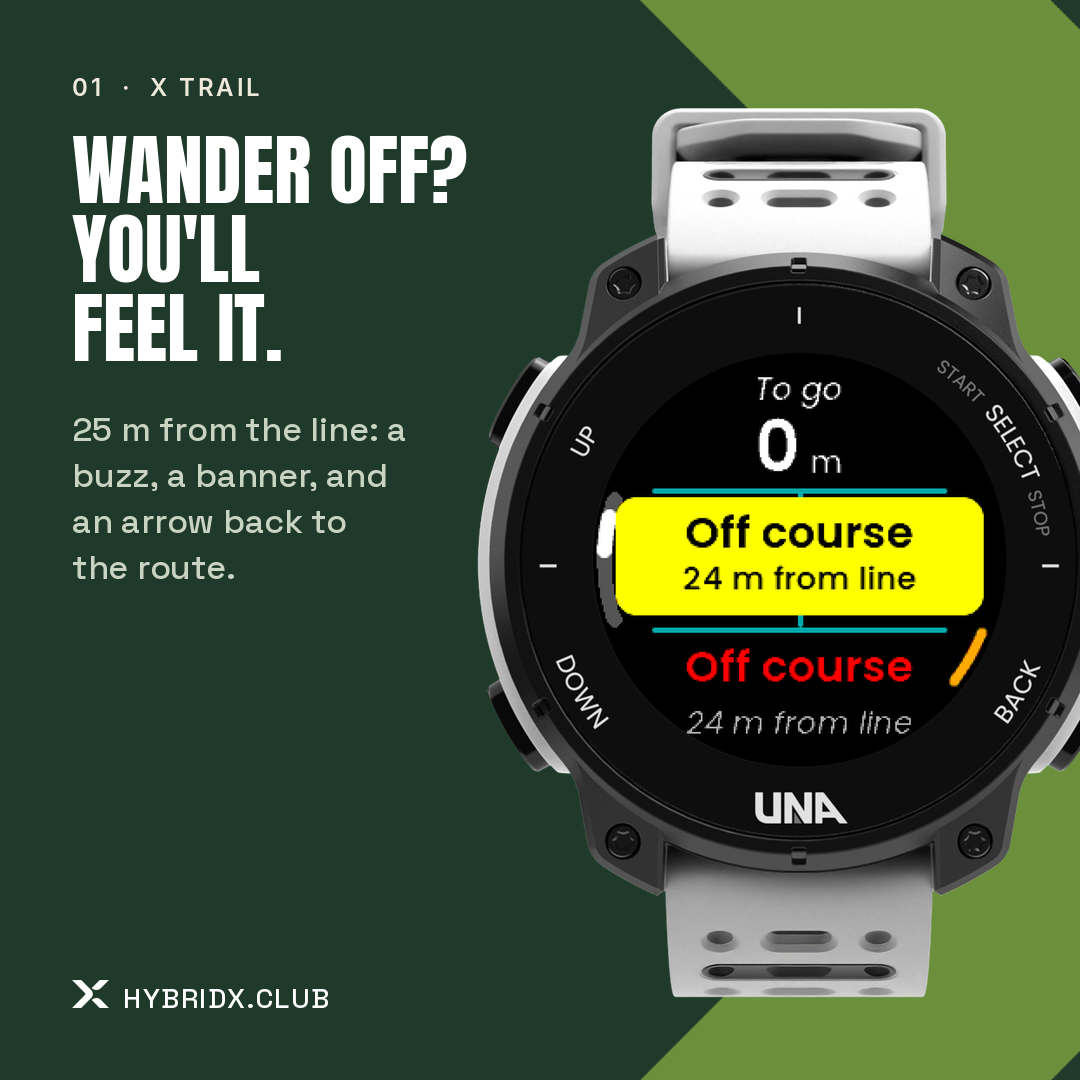
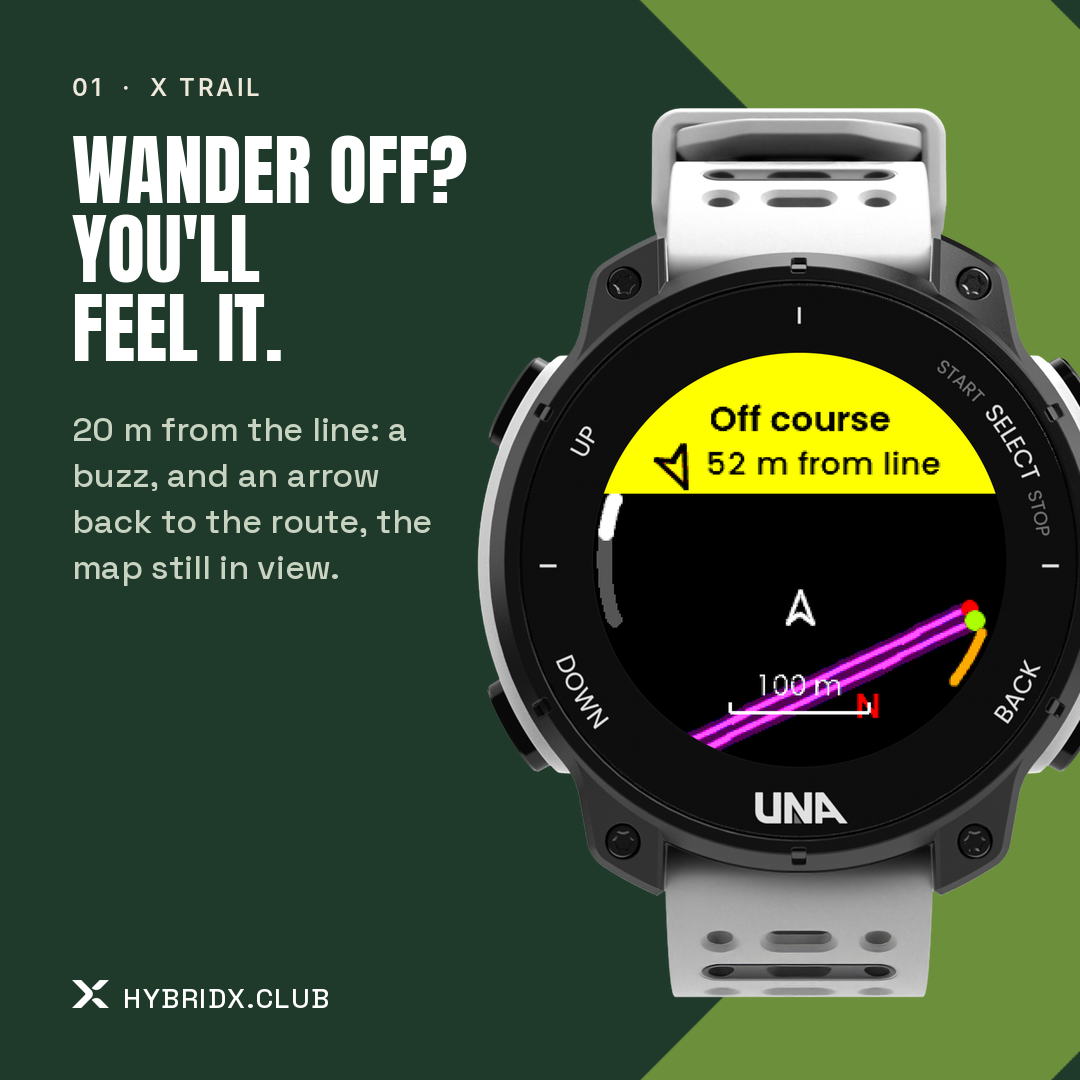
X Trail 1.1.0: the store kit and the November competition entry
- CHANGELOG: 1.1.0, the field test's amendments.
- Previews: six, with off course on the new cap and the wrong way
  (store_previews.sh picks them; --recapture runs both walkthroughs).
- Gallery: the off-course card at 20 m, a Wrong way card in place of
  Heading up, the routes card saying the watch names the folder, and the
  family card with X Training.
- Store text: the wrong way and the folder added, and two of 1.0.0's
  claims corrected ("off by 25 m"; "300 m to 3 km with one button").
- docs/SUBMISSION.md: the release steps (merge, tag trail-v1.1.0, CI's
  trail-store-zip, a watch check, upload), the release notes and a draft
  competition entry.

Checked: a 1.1.0 build passes pack-store-zip.sh --expect-version 1.1.0
(the portal's manifest rules, both SDK validators, the App ID in all
three places). That local zip is a compile check; CI's from the tag is
the one to upload.

Claude-Session: https://claude.ai/code/session_01CNkC8MxXKCmAyyiVM96XXD

Changed region(s): [[0.55, 0.3056, 0.9167, 0.7028], [0.0611, 0.3667, 0.3972, 0.55]]

diff --git a/hybridx-link/Tools/Brand/store_images.py b/hybridx-link/Tools/Brand/store_images.py
@@ -86,14 +86,14 @@ LISTINGS = {
         "body": "Follow a GPX route on your wrist, with a buzz when you leave the line.",
         "hero": "previews/4-off-course.png",
         "cards": [
-            (["WANDER OFF?", "YOU'LL", "FEEL IT."], "25 m from the line: a buzz, a banner, and an arrow back to the route.",
+            (["WANDER OFF?", "YOU'LL", "FEEL IT."], "20 m from the line: a buzz, and an arrow back to the route, the map still in view.",
              "previews/4-off-course.png", False),
-            (["YOUR", "ROUTES"], "Copy your GPX files over USB. Each shows its distance and climb.",
+            (["YOUR", "ROUTES"], "Copy GPX files over USB: the watch tells you where. Each shows its distance and climb.",
              "previews/1-routes.png", True),
-            (["HEADING", "UP"], "A map that turns with you, zoomed from 300 m to 3 km with one button.",
-             "previews/3-map.png", False),
+            (["WRONG", "WAY?"], "On the route but running it backwards? A different buzz, and an arrow the right way.",
+             "previews/5-wrong-way.png", False),
             (["KNOW THE", "CLIMB"], "An elevation profile for routes with heights, and turn cues before each turn.",
-             "previews/5-elevation.png", True),
+             "previews/6-elevation.png", True),
         ],
     },
     "ride": {

diff --git a/hybridx-trail/docs/SUBMISSION.md b/hybridx-trail/docs/SUBMISSION.md
@@ -1,0 +1,90 @@
+# X Trail 1.1.0: the store update and the November competition
+
+Written 24 November 2026. X Trail 1.0.1 is on the store; 1.1.0 is the first field test's
+amendments (NOTES "T4"), packaged for the store and for UNA's November app competition.
+
+**The competition's rules and deadline are not in this repository.** Race's entry (October,
+`hybridx-race/docs/SUBMISSION.md`) was judged on usefulness, originality and UX/UI, each out of
+10; the entry below follows that shape. Check the November email for its deadline, its form and
+whether an update to a listed app can be entered.
+
+## Where things stand
+
+| | |
+|---|---|
+| The app | Built: wrong way, off course at 20 m, the alert as a cap across the top, the run after the finish, the folder on the route list, and two fixes (NOTES "T4"). 172 host tests, also under ASan + UBSan |
+| On a watch | **Not yet.** Every change is checked in the simulator only (NOTES "For Jon on the watch") |
+| The package | Ready. `Utilities/pack-store-zip.sh --expect-version 1.1.0` passes locally on a 1.1.0 build: the portal's manifest rules, both SDK validators, the App ID (`1C83FDDE4EA3C880`) the same in all three places, six previews. That local zip was a compile check and is not for upload: CI builds the real one from the tag |
+| Previews (in the zip) | Six, from the simulator: routes, a route, the map, off course (the new cap), **wrong way** (new), the climb |
+| Gallery (on the listing) | Regenerated in `docs/store/`: the banner, four cards (off course at 20 m, your routes, **wrong way**, the climb) and the family card, now with X Training |
+| Store text | The listing's description is updated in `hybridx-link/docs/STORE_RELEASE.md` ("X Trail"); the release notes are below |
+
+## The steps (about 45 minutes of Jon's time, plus a run)
+
+1. **Merge** this branch's pull request into `main` (earlier Trail tags are on `main`'s merge
+   commits).
+2. **Make the tag on GitHub.** Claude's session cannot push tags.
+   1. Open the repository, then **Releases**, then **Draft a new release**.
+   2. **Choose a tag:** type `trail-v1.1.0`, choose **Create new tag on publish**.
+   3. **Target:** `main`, at the merge commit.
+   4. **Title:** "X Trail 1.1.0". Paste the release notes below if you like.
+   5. Choose **Publish release**.
+3. **Wait about ten minutes** for *Watch builds* on the tag (the **Actions** tab). On its run
+   page, download **trail-store-zip** (`HybridXTrail-1.1.0.zip`) and **watch-apps**. On a tag,
+   CI refuses to make the zip if the binary's version is not 1.1.0.
+4. **Check the exact binary on the watch.** Copy `HybridXTrail_1.1.0.uapp` from the zip into
+   `Apps/1C83FDDE4EA3C880/` over USB (the store install's folder; delete the old `.uapp` there,
+   keep `Routes/` and the other files), power-cycle, and do the short test: NOTES "For Jon on
+   the watch", at least items 1, 2 and 5. Then a run on an out-and-back if you can (item 3).
+5. **Upload.** On X Trail's listing: the **Version** tab, **Upload New**, the zip itself (not
+   its contents), **Release**, **Confirm and Publish**. The App ID is unchanged, so the store
+   matches it to the listing.
+6. **The listing:** paste the description from `STORE_RELEASE.md` ("X Trail"), and replace the
+   gallery with `docs/store/` (banner first; `docs/store/README.md`).
+7. **Install from the store** through the UNA app, then **enter the competition** (below).
+
+**If the portal refuses the zip:** send Claude its message word for word. The fix goes in,
+`trail-v1.1.1` is tagged, and that zip goes up instead.
+
+## Release notes (for the GitHub release and the portal, if it asks)
+
+> **X Trail 1.1.0**, after a field test on a real route:
+>
+> - **Wrong way:** on the route but running it backwards? A different buzz, and an arrow the
+>   right way. "Right way" when you are.
+> - **Off course at 20 m** from the line (it was 50 m), and back on course within 12 m.
+> - **The alert sits across the top of the screen,** so the map stays in view below it.
+> - **After the finish,** the map shows your time and distance until you save.
+> - **Add routes** tells you the folder to copy GPX files into.
+> - Fixed: "Back on course" shows again; turning just short of an out-and-back's turnaround no
+>   longer sends "to go" back up.
+> - With X Streak: where your form stands, on the Saved screen.
+
+## Competition entry (draft, Jon to edit)
+
+The lengths the form allows are unknown, so these are short.
+
+**Usefulness.** UNA Watch has no route navigation, and trail runners get lost. X Trail puts any
+GPX route on the wrist, as exported from OS Maps, Komoot or Strava, with no conversion: a map
+with you on the line, distance to go, turn cues and the climb ahead. It buzzes when you are 20 m
+off the line, with an arrow back, and when you are on the route but running it the wrong way. It
+records the run as well (to the UNA app and Strava) and counts in X Streak. It was field-tested
+on a real route, and this version is what that run asked for.
+
+**Originality.** *Jon to check the store for any other route navigation before claiming it is
+the first.* It reads the GPX on the watch, a chunk at a time in fixed memory, so a 50 km route
+takes a third of a second. It knows where you are *along* the route, not just near it, so loops,
+out-and-backs and figure-of-eights count down correctly where "the nearest point" goes wrong.
+That is also how it tells the wrong way: from your progress along the route, which is steady,
+not the GPS heading, which swings by tens of degrees at running pace.
+
+**UX and UI.** Built for a round 240 px screen read on the move: the alerts sit in a cap across
+the top, so the map and your arrow stay in view; you can tell the alerts apart without looking
+(off course two long buzzes, wrong way a quick three, left one click, right a double click, back
+on a short double); the map zooms in and out on the up and down buttons; and the app tells you
+the folder your GPX files go in, which a store install's name hides. The alerts' text is
+measured to fit the round face at the height it sits.
+
+*Facts checked against the code and NOTES (T0 for the read time, T1 for the tracker, T3-T3c for
+the map, turn cues and buzzes, T4 for this version). Not claimed: the compass (untested on the
+watch), and that it is the first.*

diff --git a/hybridx-link/docs/STORE_RELEASE.md b/hybridx-link/docs/STORE_RELEASE.md
@@ -34,7 +34,7 @@ the zips CI builds from the tags go to the portal.**
 | X Streak Glance | `Glance/HXStreakGlance-<v>.zip` (`streak-store-zip`) | the same tag | the portal's `BC8BFA0808314DB6` |
 | X Run | `HybridXRun-<v>.zip` (`run-store-zip`) | `run-v1.0.0` | the portal's `D0A3ADE4AF694DB2` |
 | VO2max Glance | `Glance/HybridXRunGlance-<v>.zip` (`run-store-zip`) | the same tag | the portal's `A38E5C0975D2394A` |
-| X Trail | `HybridXTrail-<v>.zip` (`trail-store-zip`) | `trail-v1.0.0` | the portal's `1C83FDDE4EA3C880` |
+| X Trail | `HybridXTrail-<v>.zip` (`trail-store-zip`) | `trail-v1.0.0`, `trail-v1.0.1`; the update is `trail-v1.1.0` (`hybridx-trail/docs/SUBMISSION.md`) | the portal's `1C83FDDE4EA3C880` |
 | X Workout | `HybridXWorkout-<v>.zip` (`workout-store-zip`) | `workout-v1.0.0` | the portal's `B9171EBAF7066A30` |
 | X Ride | `HybridXRide-<v>.zip` (`ride-store-zip`) | `ride-v1.0.0` | the portal's `58F141AE44428F51` |
 | X Training (new) | `HybridXTraining-<v>.zip` (`training-store-zip`) | `training-v1.0.0` (published; the update is `training-v1.1.0`) | the portal's `C790FB2FDF322688` |
@@ -270,7 +270,7 @@ Counts in X Streak.
 > Run a route without looking at your phone.
 >
 > - Load a GPX route and see it on a map with you on the line: heading-up or north-up, zoomed
->   from 300 m to 3 km with one button.
+>   in and out with the up and down buttons, from 60 m to 3.5 km around you or the whole route.
 > - Off by 20 m or more? A buzz, and an arrow back to the route. "Back on course" when you are.
 > - Running the route the wrong way? A different buzz, and an arrow the right way.
 > - Turn cues before each turn, distance to go, and an elevation profile for routes with heights.
@@ -284,10 +284,12 @@ Counts in X Streak.
 >
 > Made by HybridX.
 
-**Facts checked against the code:** Trail NOTES T3, T3b and T3c (zoom 300 m, 750 m, 1.5 km and
-3 km; turn cues; the way back; elevation), T4 (off course from 20 m, the wrong way, the folder;
-for 1.1.0: 1.0.0's text said 25 m, which was where the arrow back appears, not the alert), and
-"Run link".
+**Facts checked against the code:** Trail NOTES T3, T3b and T3c (turn cues; the way back;
+elevation), `Core/Header/MapZoom.hpp` (nine steps from 60 m to 3.5 km, then the whole route, on
+UP and DOWN since 28 October), T4 (off course from 20 m, the wrong way, the folder), and "Run
+link". **Corrected for 1.1.0:** 1.0.0's text said "off by 25 m" (that is where the arrow back
+appears; the alert was at 50 m) and "300 m to 3 km with one button" (T3b's zoom, replaced before
+1.0.0 shipped).
 
 **Not claimed:** routes sent from the phone. The Route Sender is a test and is not part of
 this release.

diff --git a/hybridx-trail/docs/NOTES.md b/hybridx-trail/docs/NOTES.md
@@ -953,3 +953,26 @@ after the finish (T1.2's rule 6: walking back to the car).
 5. **The folder:** the route list's "Add routes" should read "in 1C83FDDE4EA3C880" (the store
    install); R1 shows the path. If you also have a USB copy in `Apps/HybridXTrail`, see whether
    that one says "HybridXTrail" (it does only if the watch names the folder: we don't know yet).
+
+## T5: 1.1.0 for the store (24 November 2026)
+
+Jon asked for 1.1.0 to be packaged for the store and his entry to UNA's November app competition.
+The steps, the release notes and a draft entry: `docs/SUBMISSION.md`.
+
+- **Previews** (`Resources/previews/`, `store_previews.sh`): six, now with off course on the new
+  cap (`21-off-course.png`) and the wrong way (`t4-01-wrong-way.png`, from `capture_t4.sh`); the
+  navigation face's preview is dropped to keep six. `--recapture` runs both walkthroughs.
+- **Gallery** (`docs/store/`, `hybridx-link/Tools/Brand/store_images.py trail`): the off-course card
+  says 20 m, **Wrong way** replaces **Heading up**, the routes card says the watch names the folder;
+  the family card now has X Training. Contrast: 72 text blocks, none under 4.5:1.
+- **Store text** (`hybridx-link/docs/STORE_RELEASE.md`, "X Trail"): two claims in 1.0.0's text were
+  wrong and are corrected: "off by 25 m" (the alert was at 50 m; 25 m was the arrow back), and
+  "300 m to 3 km with one button" (the zoom has been nine steps, 60 m to 3.5 km, on UP and DOWN,
+  since 28 October).
+- **Checked:** built as 1.1.0 (`-DBUILD_VERSION=1.1.0`, the local compile check), then
+  `pack-store-zip.sh --expect-version 1.1.0` passed (the portal's manifest rules, both SDK
+  validators, the App ID in all three places). That zip was deleted: only CI's, from the tag
+  `trail-v1.1.0`, goes to the portal.
+- **Not done on a watch:** the whole of T4. The release steps put Jon's short watch test (with the
+  tag's own `.uapp`) before the upload.
+

diff --git a/hybridx-trail/docs/store/README.md b/hybridx-trail/docs/store/README.md
@@ -1,5 +1,13 @@
 # Store images for X Trail
 
+## 1.1.0 (24 November 2026)
+
+New screens from the simulator (`Resources/previews/`: the alert cap across the top, and the wrong
+way), the off-course card at 20 m (it said 25 m), a **Wrong way** card in place of **Heading up**
+(the map shows under the other cards' alerts), the routes card saying the watch names the folder,
+and the family card with X Training. On the listing, replace the whole gallery: delete the old
+images, then upload these in order.
+
 ## Store images (the X family, 9 November 2026)
 
 X Trail in the X family's **Moss** colourway. Made by `hybridx-link/Tools/Brand/store_images.py`
@@ -11,7 +19,7 @@ this order: the banner first, then the squares.
 | `01-banner.png` | 1920 × 1080, the listing's first image |
 | `02-wander-off-youll-feel-it.png` | 1080 × 1080 |
 | `03-your-routes.png` | 1080 × 1080 |
-| `04-heading-up.png` | 1080 × 1080 |
+| `04-wrong-way.png` | 1080 × 1080 (1.1.0; replaces `04-heading-up.png`) |
 | `05-know-the-climb.png` | 1080 × 1080 |
 | `06-the-x-family.png` | 1080 × 1080 |
 

diff --git a/CLAUDE.md b/CLAUDE.md
@@ -210,6 +210,9 @@ independent of Race and Streak.
     tracker's turnaround rule), the banner as a cap across the top, the run's
     time and distance after the finish, and the app's folder on the route list
     (a store install's is the App ID, `Apps/1C83FDDE4EA3C880`).
+  - the store update 1.1.0 and the November competition entry: `hybridx-trail/docs/SUBMISSION.md`
+    (tag `trail-v1.1.0`, CI artifact `trail-store-zip`; previews `docs/experiments/store_previews.sh`,
+    gallery `hybridx-link/Tools/Brand/store_images.py trail`).
   - Route Sender (Android APK, with host tests):
     `hybridx-trail/Tools/RouteSender/build.sh`. It uses `$ANDROID_HOME` if
     set, else Ubuntu's `android-sdk-platform-23 aapt apksigner zipalign

diff --git a/hybridx-trail/CHANGELOG.md b/hybridx-trail/CHANGELOG.md
@@ -11,6 +11,10 @@ prefix for the SDK's version script. The store release of the Streak family:
 
 ## [Unreleased]
 
+## [1.1.0] - 2026-11-24
+
+The first field test's amendments (NOTES "T4").
+
 ### Added
 
 - **Wrong way**: on the route but running it backwards (30 m back along it), a quick, insistent
